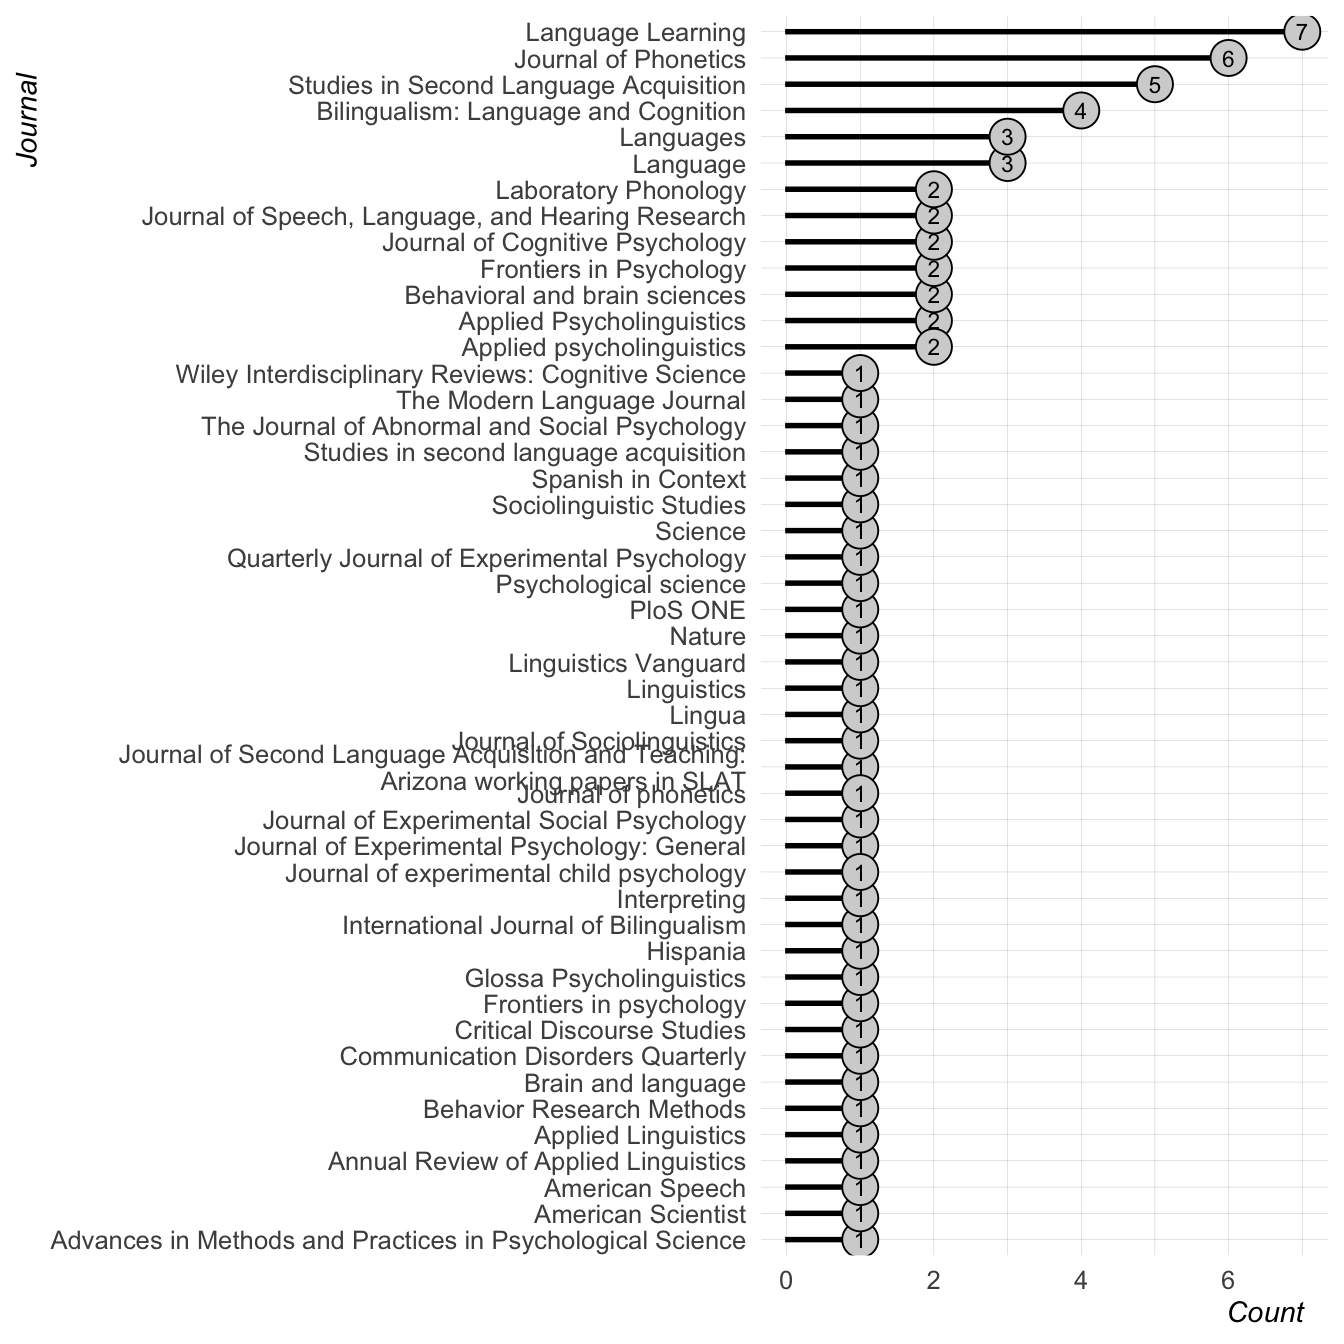
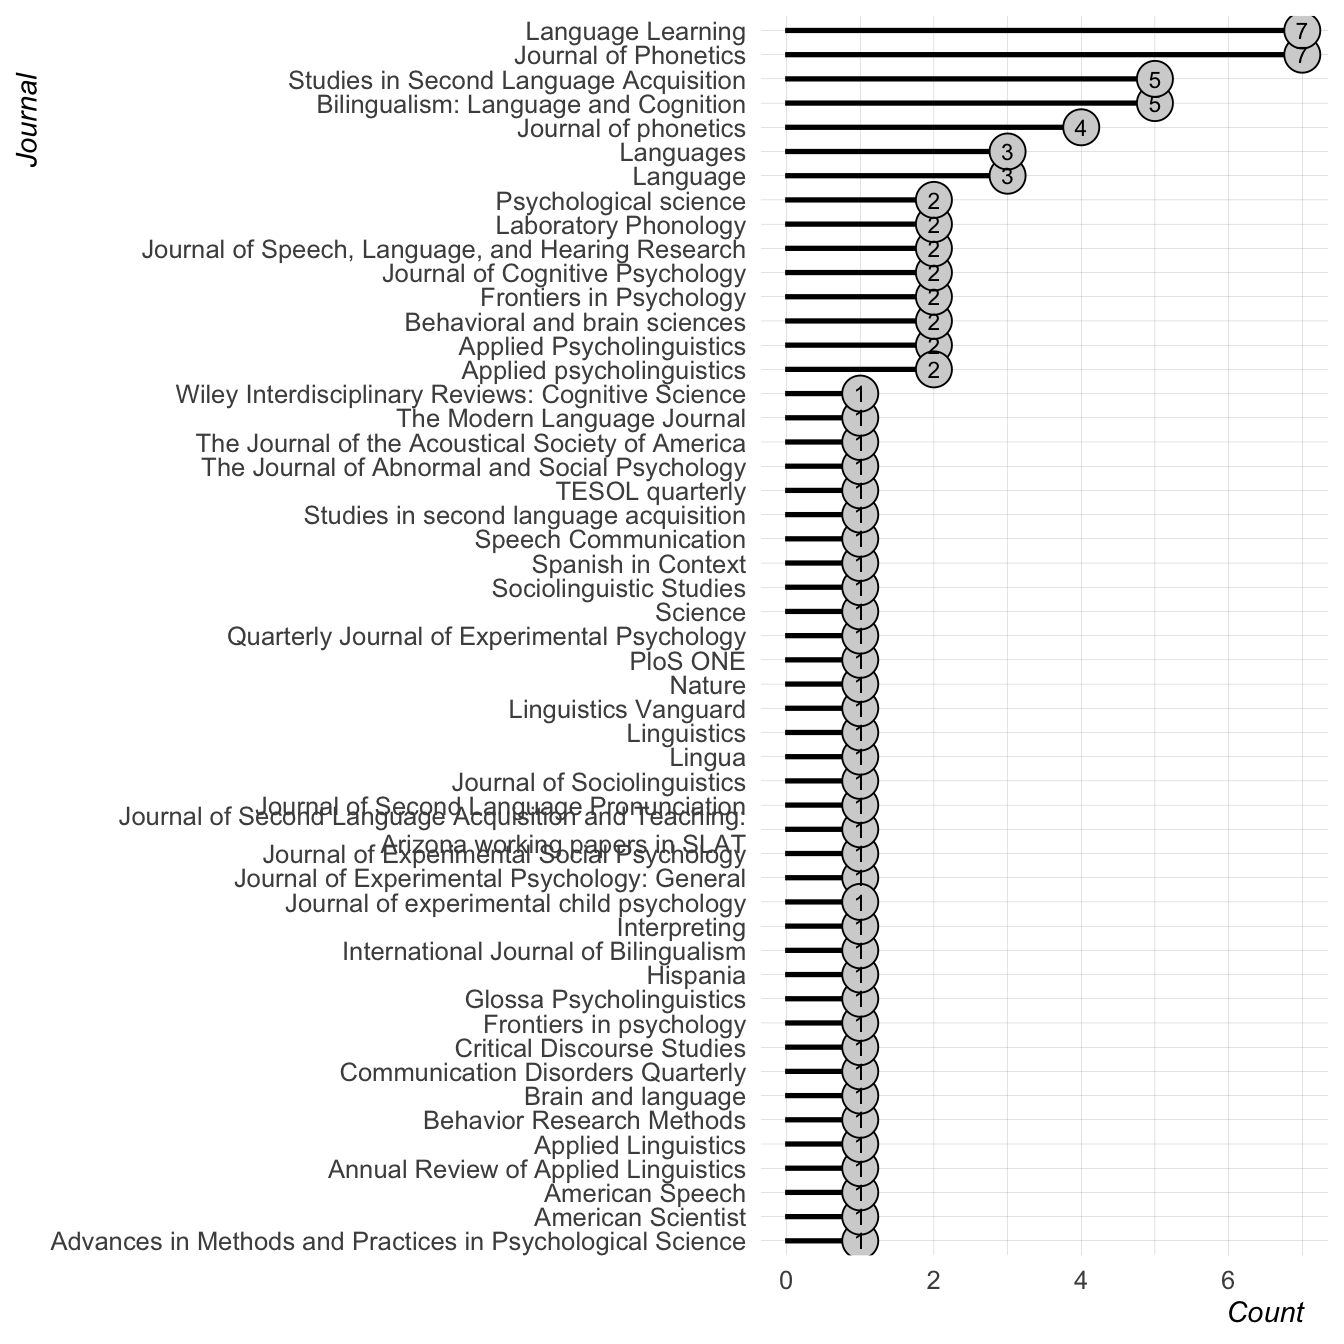
additions

diff --git a/README.md b/README.md
@@ -1,6 +1,6 @@
 # Sound communities references
 Joseph V. Casillas
-2024-12-20
+2025-02-26
 
 ## Citation Types
 
@@ -44,12 +44,21 @@ Contact.” *Sociolinguistic Studies* 8 (1): 139–70.
 
 </div>
 
+<div id="ref-amengual2012interlingual" class="csl-entry">
+
+Amengual, Mark. 2012. “Interlingual Influence in Bilingual Speech:
+Cognate Status Effect in a Continuum of Bilingualism.” *Bilingualism:
+Language and Cognition* 15 (3): 517–30.
+<https://doi.org/10.1017/S1366728911000460>.
+
+</div>
+
 <div id="ref-amengual2018asymmetrical" class="csl-entry">
 
-Amengual, Mark. 2018. “Asymmetrical Interlingual Influence in the
-Production of Spanish and English Laterals as a Result of Competing
-Activation in Bilingual Language Processing.” *Journal of Phonetics* 69:
-12–28. <https://doi.org/10.1016/j.wocn.2018.04.002>.
+———. 2018. “Asymmetrical Interlingual Influence in the Production of
+Spanish and English Laterals as a Result of Competing Activation in
+Bilingual Language Processing.” *Journal of Phonetics* 69: 12–28.
+<https://doi.org/10.1016/j.wocn.2018.04.002>.
 
 </div>
 
@@ -76,6 +85,14 @@ Antoniou, Mark, Michael D. Tyler, and Catherine T. Best. 2012. “Two Ways
 to Listen: Do L2-Dominant Bilinguals Perceive Stop Voicing According to
 Language Mode?” *Journal of Phonetics* 40 (4): 582–94.
 <https://doi.org/10.1016/j.wocn.2012.05.005>.
+
+</div>
+
+<div id="ref-au2002overhearing" class="csl-entry">
+
+Au, Terry Kit-fong, Leah M Knightly, Sun-Ah Jun, and Janet S Oh. 2002.
+“Overhearing a Language During Childhood.” *Psychological Science* 13
+(3): 238–43. <https://doi.org/10.1111/1467-9280.00444>.
 
 </div>
 
@@ -194,6 +211,16 @@ the Modern Language Journal".” *The Modern Language Journal*, 3–18.
 
 </div>
 
+<div id="ref-caramazza1973acquisition" class="csl-entry">
+
+Caramazza, Alfonso, Grace H Yeni-Komshian, Edgar B Zurif, and Ettore
+Carbone. 1973. “The Acquisition of a New Phonological Contrast: The Case
+of Stop Consonants in French-English Bilinguals.” *The Journal of the
+Acoustical Society of America* 54 (2): 421–28.
+<https://doi.org/10.1121/1.1913594>.
+
+</div>
+
 <div id="ref-carmichael2016place" class="csl-entry">
 
 Carmichael, Katie. 2016. “Place-Linked Expectations and Listener
@@ -227,6 +254,24 @@ Casillas, Joseph V, and Miquel Simonet. 2018. “Perceptual Categorization
 and Bilingual Language Modes: Assessing the Double Phonemic Boundary in
 Early and Late Bilinguals.” *Journal of Phonetics* 71: 51–64.
 <https://doi.org/10.1016/j.wocn.2018.07.002>.
+
+</div>
+
+<div id="ref-chang2012rapid" class="csl-entry">
+
+Chang, Charles B. 2012. “Rapid and Multifaceted Effects of
+Second-Language Learning on First-Language Speech Production.” *Journal
+of Phonetics* 40 (2): 249–68.
+<https://doi.org/10.1016/j.wocn.2011.10.007>.
+
+</div>
+
+<div id="ref-chang2019language" class="csl-entry">
+
+———. 2019. “Language Change and Linguistic Inquiry in a World of
+Multicompetence: Sustained Phonetic Drift and Its Implications for
+Behavioral Linguistic Research.” *Journal of Phonetics* 74: 96–113.
+<https://doi.org/10.1016/j.wocn.2019.03.001>.
 
 </div>
 
@@ -291,6 +336,25 @@ Across Bilingual Minds.” *International Journal of Bilingualism* 23 (6):
 
 </div>
 
+<div id="ref-Flege:1995wl" class="csl-entry">
+
+Flege, James E. 1995. “<span class="nocase">Second language speech
+learning: Theory, findings, and problems</span>.” In *Speech Perception
+and Linguistic Experience Issues in Cross-Language Research*, edited by
+Winifred Strange, 229–73. Timonium, MD: York Press.
+
+</div>
+
+<div id="ref-flege_bohn_2021" class="csl-entry">
+
+Flege, James E, and Ocke-Schwen Bohn. 2021. “<span class="nocase">The
+Revised Speech Learning Model (SLM-r)</span>.” In *Second Language
+Speech Learning: Theoretical and Empirical Progress*, edited by
+RatreeEditor Wayland, 3–83. Cambridge, MA: Cambridge University Press.
+<https://doi.org/10.1017/9781108886901.002>.
+
+</div>
+
 <div id="ref-flege2002assessing" class="csl-entry">
 
 Flege, James E., Ian R. A. MacKay, and Thorsten Piske. 2002. “Assessing
@@ -330,6 +394,15 @@ Gonzales, Kalim, and Andrew J Lotto. 2013. “A Bafri, Un Pafri:
 Bilinguals’ Pseudoword Identifications Support Language-Specific
 Phonetic Systems.” *Psychological Science* 24 (11): 2135–42.
 <https://doi.org/10.1177/0956797613486485>.
+
+</div>
+
+<div id="ref-gorba2023acquisition" class="csl-entry">
+
+Gorba, Celia, and Juli Cebrian. 2023. “The Acquisition of L2 Voiced
+Stops by English Learners of Spanish and Spanish Learners of English.”
+*Speech Communication* 146: 93–108.
+<https://doi.org/10.1016/j.specom.2022.12.003>.
 
 </div>
 
@@ -471,6 +544,14 @@ Lev-Ari, Shiri, and Boaz Keysar. 2010. “Why Don’t We Believe Non-Native
 Speakers? The Influence of Accent on Credibility.” *Journal of
 Experimental Social Psychology* 46 (6): 1093–96.
 <https://doi.org/10.1016/j.jesp.2010.05.025>.
+
+</div>
+
+<div id="ref-levis2005changing" class="csl-entry">
+
+Levis, John M. 2005. “Changing Contexts and Shifting Paradigms in
+Pronunciation Teaching.” *TESOL Quarterly* 39 (3): 369–77.
+<https://doi.org/3588485>.
 
 </div>
 
@@ -717,6 +798,22 @@ Analysis in Phonetic Sciences: Towards Pluralism and Reproducibility.”
 
 </div>
 
+<div id="ref-sakai2018" class="csl-entry">
+
+Sakai, M. 2018. “Moving Towards a Bilingual Baseline in Second Language
+Phonetic Research.” *Journal of Second Language Pronunciation* 4 (1):
+11–45. <https://doi.org/10.1075/jslp.00002.sak>.
+
+</div>
+
+<div id="ref-sancier1997gestural" class="csl-entry">
+
+Sancier, Michele L, and Carol A Fowler. 1997. “Gestural Drift in a
+Bilingual Speaker of Brazilian Portuguese and English.” *Journal of
+Phonetics* 25 (4): 421–36. <https://doi.org/10.1006/jpho.1997.0051>.
+
+</div>
+
 <div id="ref-sankoff2002linguistic" class="csl-entry">
 
 Sankoff, Gillian. 2002. “Linguistic Outcomes of Language Contact.” In
@@ -767,6 +864,15 @@ Sugden, Nicole A, and Margaret C Moulson. 2015. “Recruitment Strategies
 Should Not Be Randomly Selected: Empirically Improving Recruitment
 Success and Diversity in Developmental Psychology Research.” *Frontiers
 in Psychology* 6: 523. <https://doi.org/10.3389/fpsyg.2015.00523>.
+
+</div>
+
+<div id="ref-tobin2017phonetic" class="csl-entry">
+
+Tobin, Stephen J, Hosung Nam, and Carol A Fowler. 2017. “Phonetic Drift
+in Spanish-English Bilinguals: Experiment and a Self-Organizing Model.”
+*Journal of Phonetics* 65: 45–59.
+<https://doi.org/10.1016/j.wocn.2017.05.006>.
 
 </div>
 
